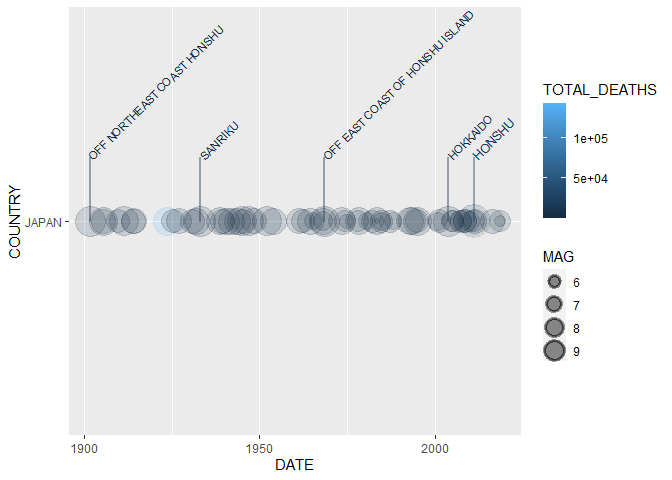
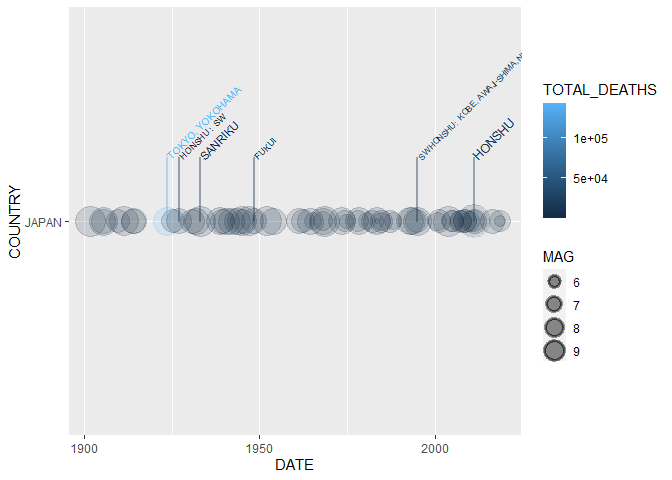
fixed example for 'geom_timeline_label'

diff --git a/README.md b/README.md
@@ -116,7 +116,9 @@ timelines using the `GeomTimelineLabel` Geom. Simply add another ggplot2
 layer using the `geom_timeline_label` in conjunction with
 `geom_timeline`.
 
-Labeling the 5 most deadly earthquakes in the Japan since 1900:
+Labeling the 5 most deadly earthquakes (6 are shown since 5th is “tied”)
+in the Japan since 1900, note that the column we use for labeling is
+indicated by the `mag` aesthetic:
 
 ``` r
 data %>% dplyr::filter(COUNTRY == "JAPAN", 
@@ -126,7 +128,7 @@ data %>% dplyr::filter(COUNTRY == "JAPAN",
                       size = MAG,
                       color = TOTAL_DEATHS,
                       label = REGION,
-                      mag = MAG)) +
+                      mag = TOTAL_DEATHS)) +
   geom_timeline() +
   geom_timeline_label(aes(n_max = 5))
 ```
